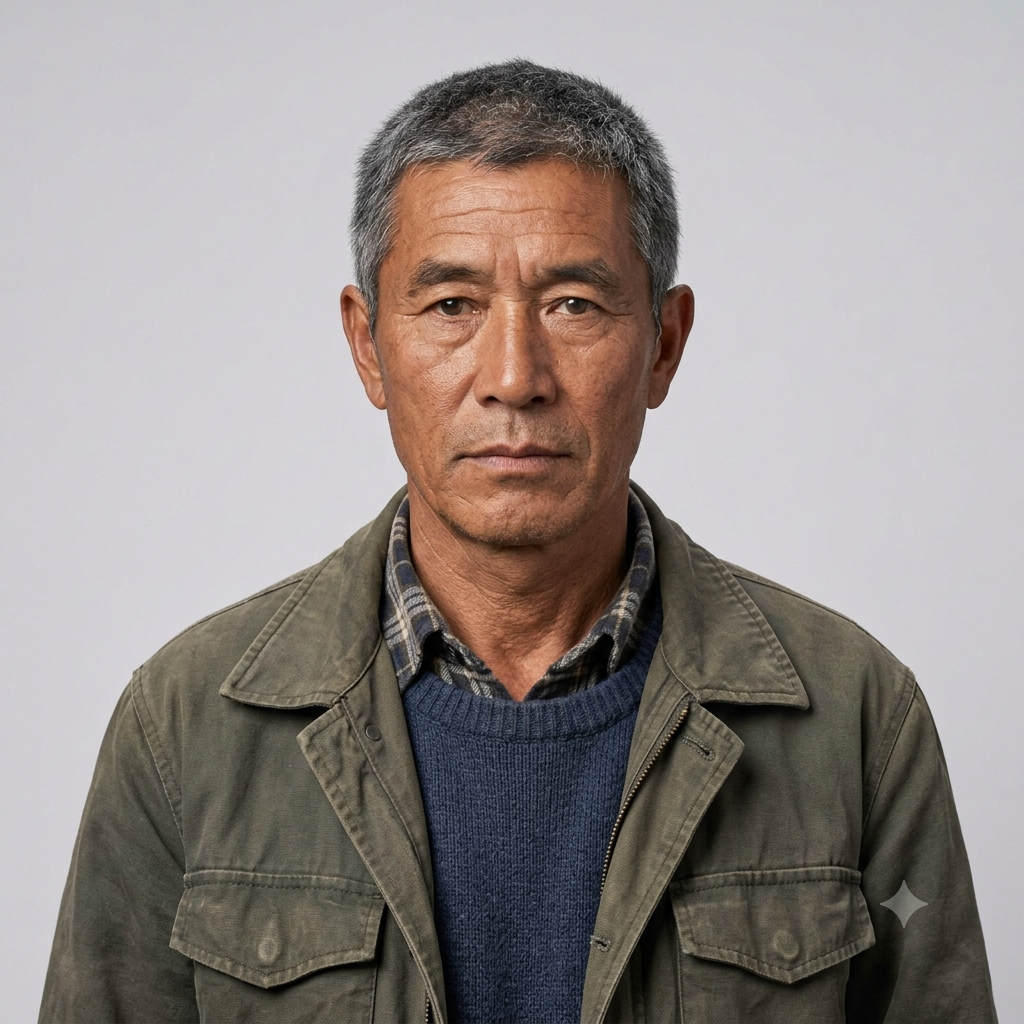
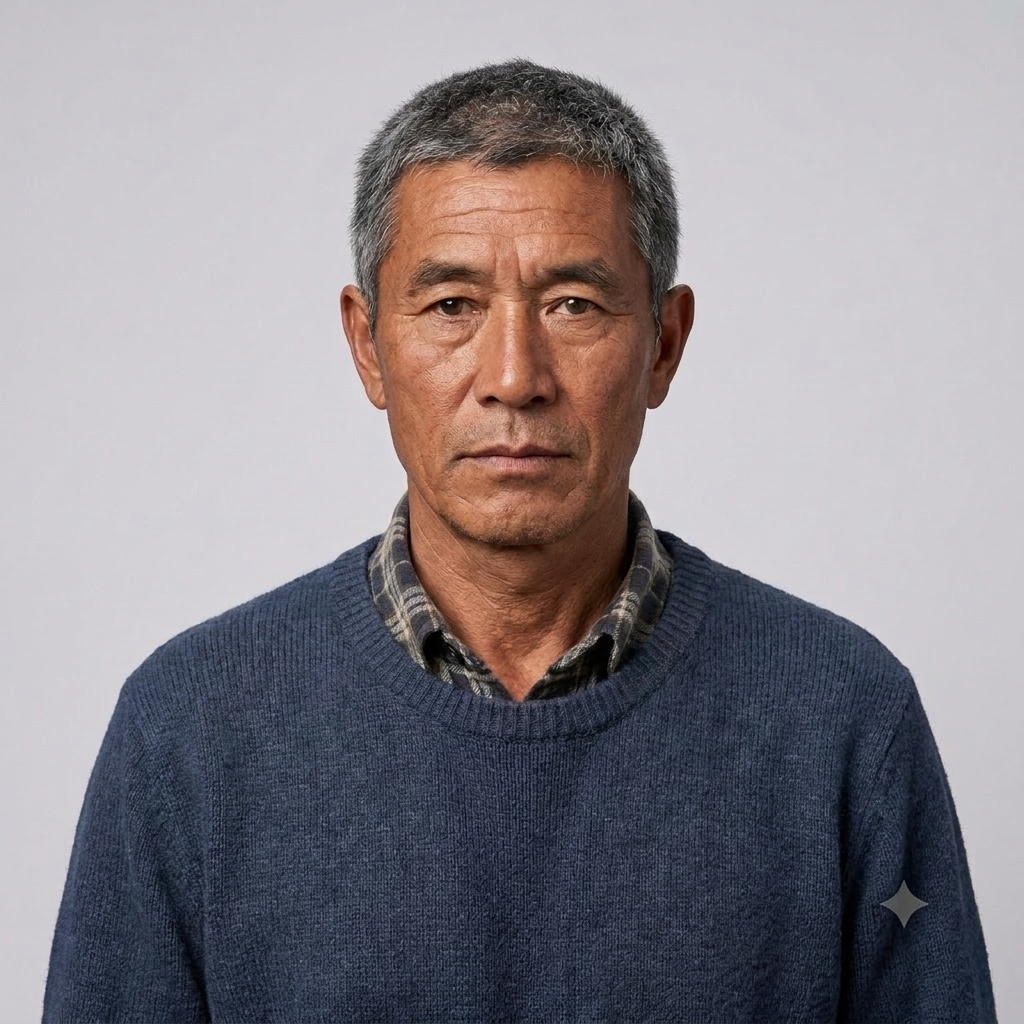
update

Changed region(s): [[0.0312, 0.4688, 0.4688, 1.0], [0.5625, 0.4688, 1.0, 1.0], [0.5938, 0.125, 0.625, 0.1562]]

diff --git a/SITE-REFRESH-PLAN.md b/SITE-REFRESH-PLAN.md
@@ -1,0 +1,69 @@
+# Site Refresh & Maintainability — Game Plan
+*Planning doc for the eventual site refresh. Not launch-window work — begins AFTER the crossroads window settles. Written so any Claude instance can resume cold. Placed in repo so it survives context compaction / new chats.*
+
+---
+
+## WHY THIS EXISTS (the diagnosis)
+The site works and looks consistent, but it is **maintained by repetition, not shared structure.** Every new feature means touching many pages. The refresh makes it maintainable so growth stops compounding the "taped together" tape. Plus a visual pass to fix the "academic library page" feel, and content cleanup.
+
+### Status snapshot (as of planning, ~Y13M7 launch window)
+- **126 HTML pages**: 44 scenarios, 37 news, 11 NRS, 13 quicksheets, 2 dispatches, plus core pages.
+- **1 shared `site.css`** — good foundation — but 121/126 link it; 5 don't (404.html, crossroads.html, feed-snippets.html, thoss-crossroads-preview.html, torenthia-globe.html — some intentional).
+- **Nav is DUPLICATED across 123 pages** (each carries its own nav/mobile-menu markup). THIS is the top "taped together" problem — any nav change = 123-page sweep. (Confirmed live: adding the crossroads to the mobile menu had to be done per-page; only homepage got it.)
+- **Inline `<style>` sprawl**: 102 pages carry >20 lines of inline CSS. The SAME masthead CSS block is copy-pasted inline across 32 news pages. site.css exists but lots of styling still lives per-page, duplicated.
+- **Feeds are hand-maintained**: homepage feed (index.html) shows 5 items; torenthia.html shows 9. No cap enforcement, no single source → drift, and "we're always behind" on the tickers.
+
+---
+
+## THE BRIEF (from John, in his words, distilled)
+1. **Easy for US to update.** (→ shared nav + CSS consolidation)
+2. **Update tickers automatic if possible** — find latest updates, list most recent 5, short description + link button, so we're not hand-updating constantly. Updating tickers is tedious and we're usually behind.
+   - **DECISION: retire the hand-maintained tickers.** Replace with ONE derived, self-updating "Latest" strip on the homepage that reads from the SAME source as the World feed. Publish-and-forget. The World feed (torenthia.html) already IS the reverse-chron "what's new" list — the manual ticker was a redundant second surface that created the maintenance tax. Kill the redundancy; make the homepage strip a *view* of the feed, not a separately-authored list.
+   - **DECISION: manifest approach, NOT true auto-discovery (for now).** Add a piece = drop ONE line into a small content manifest (title, date, blurb, link). Ticker + both feeds + cap-at-5 + newest-first all update from that. Plain static, no build step, reliable. True auto-discovery (build step scans pages, scrapes metadata) is a LATER upgrade once pages are clean enough to scrape.
+   - **Display: static-5 list vs rotating carousel** = undecided display choice (maintenance is solved either way since it's derived). Claude's lean: static 5-item list (a carousel hides 4 of 5 items and auto-advance fights the reader; real dynamism should come from the visual phase, not ticker motion). John open to rotating if he wants the motion. DECIDE AT BUILD TIME.
+3. **Easy for USERS to navigate** — comprehension + simple navigation.
+4. **Content cleanup** — prune scenarios that are stale ("long in the tooth") or redundant (two very similar → swap in a better one).
+5. **Visual: the site "looks like a library page — academic, not dynamic."** The restraint is GOOD (easy back end) and BAD (static feel). Fixable WITHOUT sacrificing the maintainable back end — the academic feel comes from uniform gray-on-cream density, no hierarchy between landing vs document pages, no motion/contrast/color moments, everything same weight.
+
+---
+
+## THE PLAN — three phases, sequenced deliberately
+
+**Core principle: STRUCTURE FIRST makes the visual refresh cheap and safe. Doing visual first = redoing it after consolidation. Everything incremental & reversible; each phase ships independently; the live site never breaks. 126 pages = NO big-bang rewrite.**
+
+### PHASE 1 — Structure (invisible to visitors, highest leverage, ships safely)
+1. **Shared nav.** Move nav/mobile-menu into ONE source every page pulls from. Plain-static-compatible route: a `nav.js` that injects the nav markup into a placeholder element on each page (one script tag per page instead of full duplicated markup). Then a nav change = 1 edit, not 123. This alone removes most of the "taped together" feeling.
+   - Watch: keep it accessible (skip-nav must remain first body child; main content keeps id="main-content"); hamburger breakpoint 820px; don't break pages that currently hardcode nav.
+2. **Consolidate duplicated inline CSS into site.css.** Pull repeated blocks (news masthead — repeated inline across 32 pages; scenario styles; etc.) into shared classes. Do it page-TYPE by page-type (news, then nrs, then scenario, then quicksheet), verifying each type renders identically before/after. Pages get lighter; styling changes happen once.
+3. **Content manifest + self-updating "Latest" strip.** Small JSON manifest (one entry per world-content piece: {type, title, date, blurb, url}). The World feed and the homepage "Latest" strip both render from it. Cap-at-5 + newest-first enforced in code. Retire manual tickers. Add a piece → update one manifest entry → everything updates.
+
+### PHASE 2 — Visual (AFTER structure; restyle shared classes once)
+Kill the "library page" feel WITHOUT touching the easy back end:
+- Stronger hero (homepage + section landings) — dark navy, gold JetBrains Mono eyebrow, Cormorant 300 h1 (house hero style already defined — push it further).
+- Real type hierarchy: differentiate landing pages from document pages (right now everything reads same-weight).
+- Contrast & color moments; motion where it earns attention (not gratuitous).
+- Make the PORTRAITS work harder visually (we added subject headshots to 17 news pages; they can anchor cards/feeds).
+- More dynamic cards (the featured-card pattern exists; extend it).
+- Keep: Cormorant Garamond headings, Jost body/UI, JetBrains Mono labels; navy/gold/cream palette; NO Playfair. All shared-class edits now, so restyle once.
+
+### PHASE 3 — Content cleanup (parallel, low-risk, editorial)
+- Prune stale/redundant scenarios. Current count 44 (was 46; 2 pulled in the CC redesign as 60%-based).
+- Where two scenarios overlap and there's a better idea, swap it in (don't just add — editorial policy is keep-it-current, remove-don't-annotate).
+- Known scenario to-dos: fresh CC scenario on the new accountability model (constructive-no-confidence / seat-vacation) — WRITE FRESH not rewrite; two indigenous scenarios (Founding Choice, Departure) recategorized & deferred; scenario-indigenous.html orphan keeps reappearing in fresh clones (verify git rm committed).
+
+---
+
+## TIMING
+- **NOT launch-window work.** The crossroads window is live; refresh is a bigger calm project that must NOT compete with feeding the window + holding Thoss's sealed resolution.
+- Start Phase 1 AFTER the window settles. Phases ship independently; content cleanup (Phase 3) can run parallel anytime.
+
+## OPEN DECISIONS TO MAKE AT BUILD TIME
+- Static-5 list vs rotating carousel for the homepage "Latest" strip.
+- nav.js injection vs a light build step (John's stated preference: keep plain-static / no build → nav.js injection). Revisit only if we later want true feed auto-discovery.
+- Fate of the dormant torenthia-globe.html (unlinked; do not resume without explicit direction).
+
+## GUARDRAILS (carry into every step)
+- Incremental, reversible, live site never breaks. Verify each page-type renders identically before/after a consolidation step.
+- American English; house typography/palette; no Playfair.
+- site.css is the home for shared styles; fix bugs there so all pages benefit.
+- Batch commits; deliver zips to outputs; John pushes (no push token for Claude).